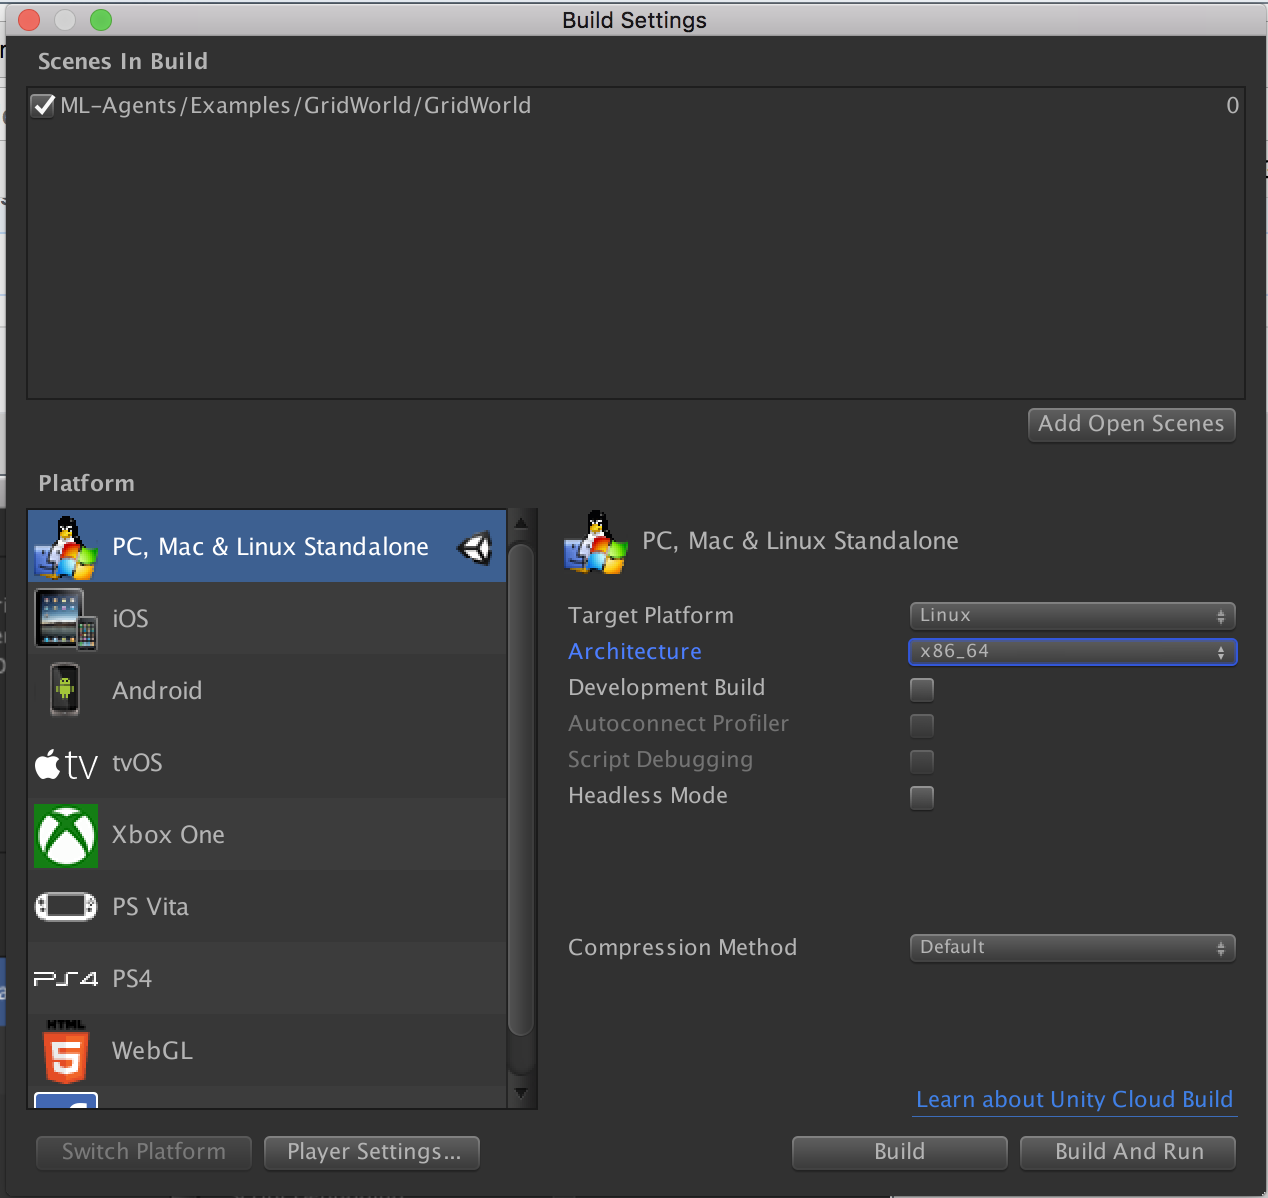
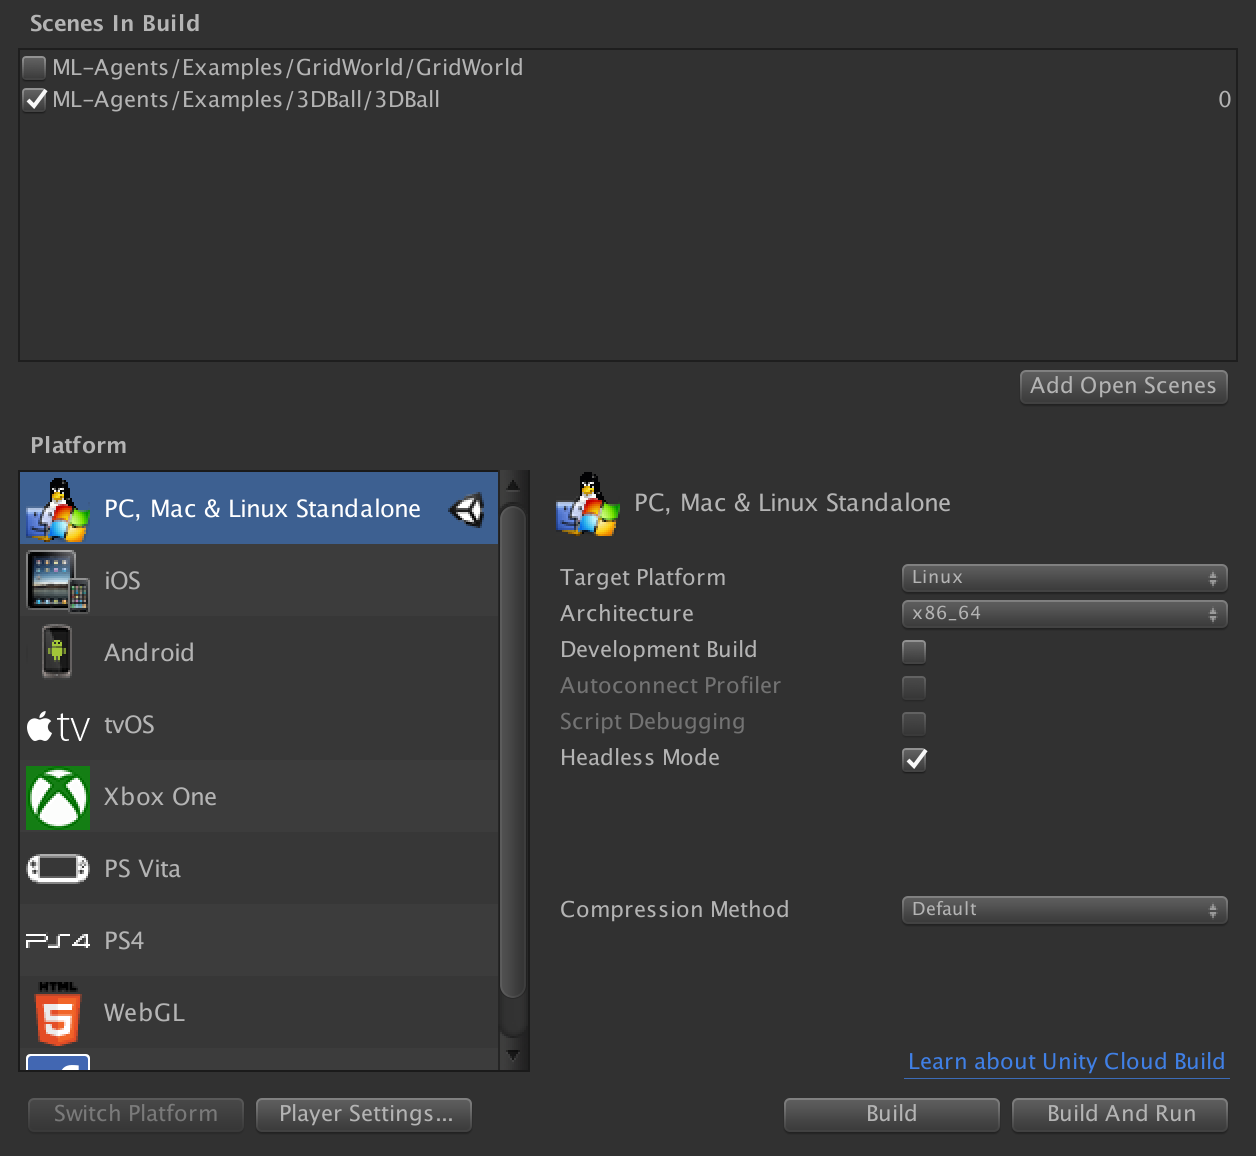
[containers] Updated docs, added comments per PR comments v2

diff --git a/docs/Using-Docker.md b/docs/Using-Docker.md
@@ -1,6 +1,6 @@
-# Using Docker For ML-Agents (Experimental)
+# Using Docker For ML-Agents
 
-We currently offer a solution for Windows and Mac users who would like to do training or inference using Docker. This option may be appealing to those who would like to avoid installing Python and TensorFlow themselves. The current setup forces both TensorFlow and Unity to _only_ rely on the CPU for computations. Consequently, our Docker simulation [does not use a GPU](https://en.wikipedia.org/wiki/Xvfb) to do visual rendering. This means that rich environments which involve agents using camera-based visual observations might be slower.
+We currently offer a solution for Windows and Mac users who would like to do training or inference using Docker. This option may be appealing to those who would like to avoid installing Python and TensorFlow themselves. The current setup forces both TensorFlow and Unity to _only_ rely on the CPU for computations. Consequently, our Docker simulation does not use a GPU and uses [`Xvfb`](https://en.wikipedia.org/wiki/Xvfb) to do visual rendering. `Xvfb` is a utility that enables `ML-Agents` (or any other application) to do rendering virtually i.e. it does not assume that the machine running `ML-Agents` has a GPU or a display attached to it. This means that rich environments which involve agents using camera-based visual observations might be slower.
 
 
 ## Requirements
@@ -27,14 +27,13 @@ Since Docker typically runs a container sharing a (linux) kernel with the host m
 Unity environment **has** to be built for the **linux platform**. When building a Unity environment, please select the following options from the the Build Settings window:
 - Set the _Target Platform_ to `Linux`
 - Set the _Architecture_ to `x86_64`
-
-![Build Settings For Docker](images/docker_build_settings_noheadless.png)
+- If the environment does not contain visual observations, you can select the `headless` option here.
 
 Then click `Build`, pick an environment name (e.g. `3DBall`) and set the output directory to `unity-volume`. After building, ensure that the file `<environment-name>.x86_64` and subdirectory `<environment-name>_Data/` are created under `unity-volume`.
 
-**NOTE** If you are only collecting vector observations from Unity, you can select the `headless` option here:
+![Build Settings For Docker(Without Headless)](images/docker_build_settings_noheadless.png)
 
-![Build Settings For Docker](images/docker_build_settings_headless.png)
+![Build Settings For Docker (Headless Mode)](images/docker_build_settings_headless.png)
 
 
 ### Build the Docker Container
@@ -70,7 +69,7 @@ For the `3DBall` environment, for example this would be:
 ```
 docker run --name 3DBallContainer.first.trial \
            --mount type=bind,source="$(pwd)"/unity-volume,target=/unity-volume \
-           balance.ball.v0.1:latest 3Dball \
+           balance.ball.v0.1:latest 3DBall \
            --docker-target-name=unity-volume \
            --train \
            --run-id=3dball_first_trial

diff --git a/docs/Installation.md b/docs/Installation.md
@@ -2,7 +2,7 @@
 
 To install and use ML-Agents, you need install Unity, clone this repository
 and install Python with additional dependencies. Each of the subsections
-below overviews each step, in addition to an experimental Docker set-up.
+below overviews each step, in addition to a Docker set-up.
 
 ## Install **Unity 2017.1** or Later
 
@@ -49,7 +49,7 @@ and run from the command line:
 
     pip3 install .
 
-## Docker-based Installation (Experimental)
+## Docker-based Installation
 
 If you'd like to use Docker for ML-Agents, please follow 
 [this guide](Using-Docker.md). 
